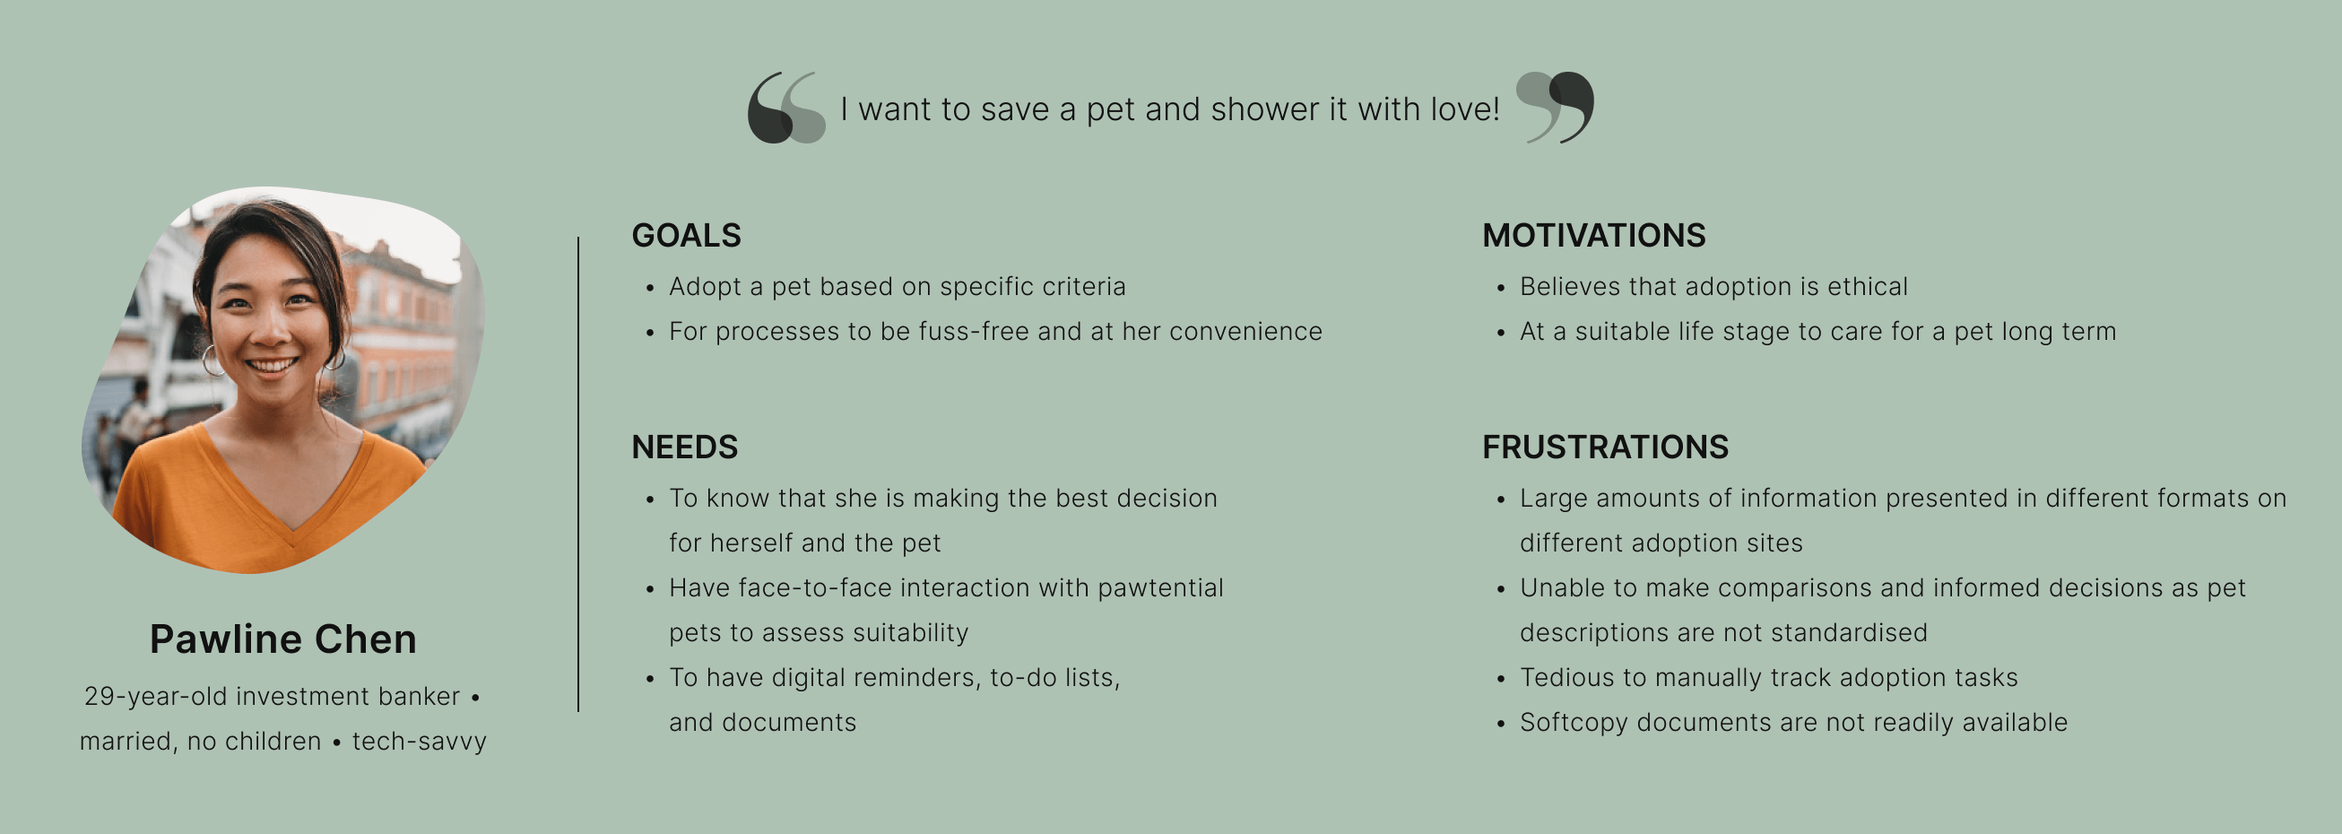
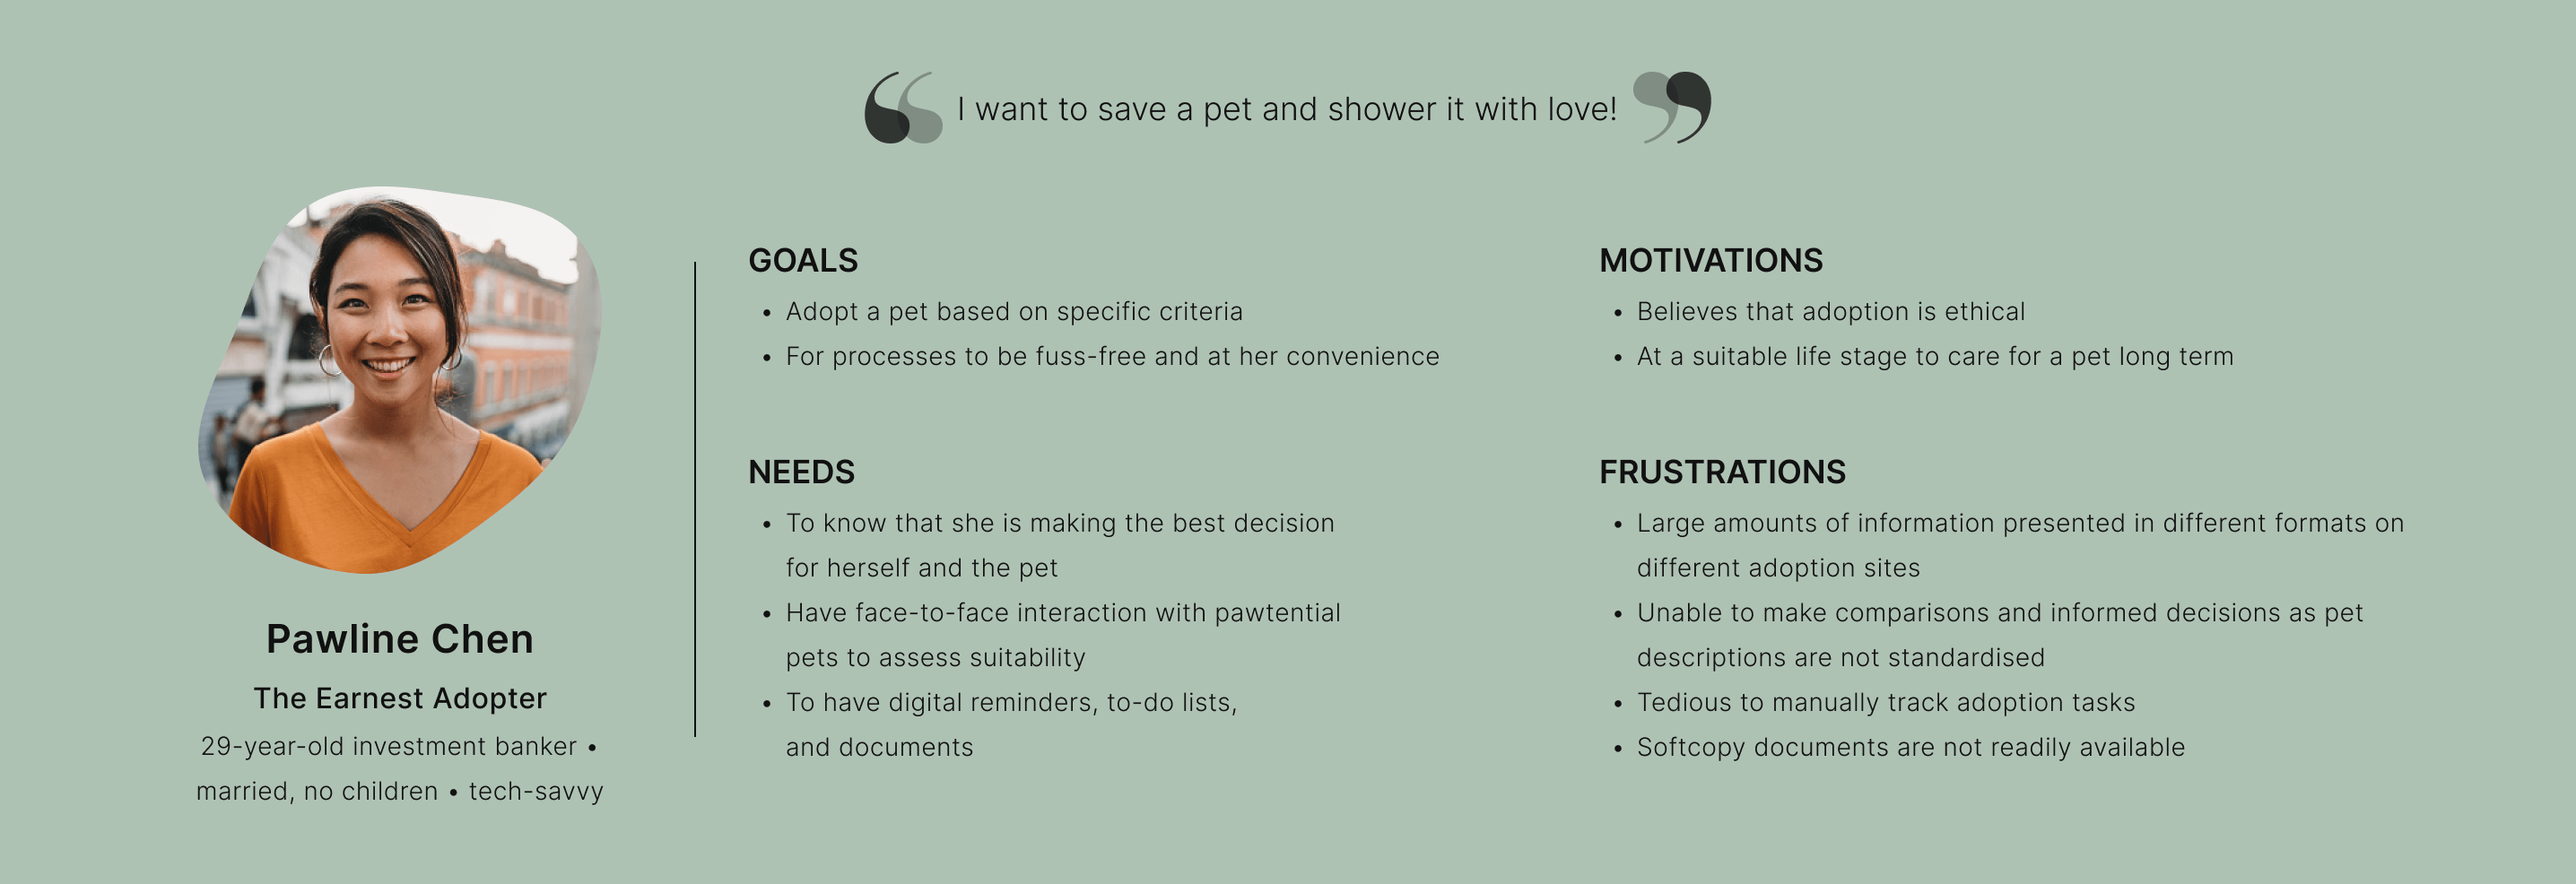
compawnion images

diff --git a/pages/works/compawnion.tsx b/pages/works/compawnion.tsx
@@ -106,8 +106,8 @@ export default function Compawnion() {
               <Image
                 src="/images/compawnion-prototype.png"
                 alt="play with prototype"
-                width={1}
-                height={1}
+                width={2872}
+                height={1024}
               />
               <Spacer size="xs" />
               Play with the prototype here
@@ -296,7 +296,12 @@ export default function Compawnion() {
       >
         <Spacer size="lg" />
         <Container size="normal" centerElements>
-          <Image src="/images/compawnion-.png" alt="" width={1} height={1} />
+          <Image
+            src="/images/compawnion-venndiagram.png"
+            alt="understanding the landscape"
+            width={2868}
+            height={2046}
+          />
         </Container>
         <Spacer size="lg" />
       </Section>
@@ -324,14 +329,19 @@ export default function Compawnion() {
             </IconContent>
           </TwoColumns>
           <Spacer size="md" />
-          <Image src="/images/compawnion-.png" alt="" width={1} height={1} />
+          <Image
+            src="/images/compawnion-affinitymap-insights.png"
+            alt="affinity map high level insights"
+            width={2872}
+            height={4198}
+          />
           <Spacer size="md" />
           <DropdownContent title="👁 👄 👁  Full affinity map">
             <ImageZoom
-              src="/images/compawnion-.png"
-              alt=""
-              width={1}
-              height={1}
+              src="/images/compawnion-affinitymap-full.png"
+              alt="full affinity map"
+              width={5871}
+              height={2453}
             />
           </DropdownContent>
         </Container>
@@ -340,7 +350,12 @@ export default function Compawnion() {
       <Section title="SYNTHESIZE" heading="PERSONA">
         <Spacer size="lg" />
         <Container size="normal" centerElements>
-          <Image src="/images/compawnion-.png" alt="" width={1} height={1} />
+          <Image
+            src="/images/compawnion-persona.png"
+            alt="persona"
+            width={2872}
+            height={986}
+          />
         </Container>
         <Spacer size="lg" />
       </Section>
@@ -348,10 +363,10 @@ export default function Compawnion() {
         <Spacer size="lg" />
         <Container size="normal">
           <ImageZoom
-            src="/images/compawnion-.png"
-            alt=""
-            width={1}
-            height={1}
+            src="/images/compawnion-journeymap.png"
+            alt="user journey map"
+            width={2872}
+            height={1600}
           />
           <Spacer size="md" />
           <ThreeColumns
@@ -392,11 +407,11 @@ export default function Compawnion() {
       <Section title="SYNTHESIZE" heading="USER FLOWS">
         <Spacer size="lg" />
         <Container size="normal">
-          <ImageZoom
-            src="/images/compawnion-.png"
-            alt=""
-            width={1}
-            height={1}
+          <Image
+            src="/images/compawnion-userflow-1.png"
+            alt="user flow - not linear user flow"
+            width={2872}
+            height={1110}
           />
           <Spacer size="md" />
           <ThreeColumns
@@ -425,19 +440,19 @@ export default function Compawnion() {
           </ThreeColumns>
           <Spacer size="md" />
           <DropdownContent title="See how Compawnion can improve the user flow">
-            <ImageZoom
-              src="/images/compawnion-.png"
-              alt=""
-              width={1}
-              height={1}
+            <Image
+              src="/images/compawnion-userflow-1a.png"
+              alt="user flow - compawnion makes things better"
+              width={2872}
+              height={672}
             />
           </DropdownContent>
           <Spacer size="lg" />
           <ImageZoom
-            src="/images/compawnion-.png"
-            alt=""
-            width={1}
-            height={1}
+            src="/images/compawnion-userflow-2.png"
+            alt="user flow - search process circular"
+            width={2872}
+            height={866}
           />
           <Spacer size="md" />
           <ThreeColumns
@@ -474,10 +489,10 @@ export default function Compawnion() {
           </ThreeColumns>
           <Spacer size="lg" />
           <ImageZoom
-            src="/images/compawnion-.png"
-            alt=""
-            width={1}
-            height={1}
+            src="/images/compawnion-userflow-3.png"
+            alt="user flow - broken up interactions"
+            width={2872}
+            height={866}
           />
           <Spacer size="md" />
           <ThreeColumns
@@ -507,10 +522,10 @@ export default function Compawnion() {
         <Container size="normal" centerText>
           <DropdownContent title="👁 👄 👁  Full user flow">
             <ImageZoom
-              src="/images/compawnion-.png"
-              alt=""
-              width={1}
-              height={1}
+              src="/images/compawnion-userflow-full.png"
+              alt="full user flow"
+              width={4558}
+              height={1171}
             />
           </DropdownContent>
         </Container>
@@ -567,7 +582,10 @@ export default function Compawnion() {
               </IconContent>
               <Spacer size="xs" />
               <Spacer size="sm" />
-              <IconContent title="ENABLE ADOPTERS" icon={"/images/icon-.png"}>
+              <IconContent
+                title="ENABLE ADOPTERS"
+                icon={"/images/icon-pet-shop.png"}
+              >
                 <ul>
                   <ListItem>
                     To connect with different shelters in a streamlined way?
@@ -619,7 +637,12 @@ export default function Compawnion() {
         </Container>
         <Spacer size="md" />
         <Container size="normal">
-          <Image src="/images/compawnion-.jpg" alt="" width={1} height={1} />
+          <Image
+            src="/images/compawnion-midfi.jpg"
+            alt="midfi prototype"
+            width={2000}
+            height={6143}
+          />
         </Container>
         <Spacer size="lg" />
       </Section>
@@ -676,7 +699,7 @@ export default function Compawnion() {
               <Paragraph>
                 <small>PROCESS</small>
               </Paragraph>
-              <IconContent icon="/images/icon-.png">
+              <IconContent icon="/images/icon-calendar.png">
                 <Heading level={4} className="display-4">
                   recency
                 </Heading>

diff --git a/components/works2/DropdownContent.tsx b/components/works2/DropdownContent.tsx
@@ -12,7 +12,7 @@ export const DropdownContent = ({ children, title }: DropdownContentProps) => {
   const [isOpen, setIsOpen] = useState(false);
 
   return (
-    <div>
+    <div className="w-100">
       <button className={styles.button} onClick={() => setIsOpen(!isOpen)}>
         <svg
           width="40"
